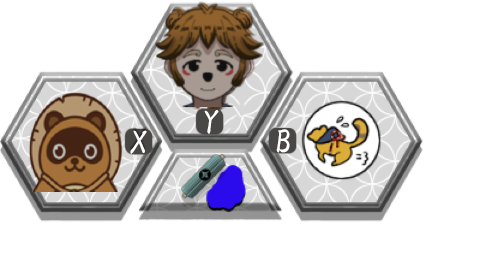
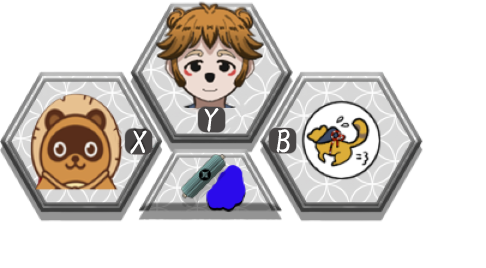
巻物ありと巻物無しのUIを作成

Changed region(s): [[0.3086, 0.0, 0.5556, 0.5075], [0.0617, 0.3284, 0.2778, 0.7164]]

diff --git a/AppFrame/source/Resources.h b/AppFrame/source/Resources.h
@@ -100,7 +100,8 @@ namespace ui
   inline constexpr const char* UI_8 = "res/UI/UI_8.png";
   inline constexpr const char* UI_9 = "res/UI/UI_9.png";
   inline constexpr const char* UI_Hito = "res/UI/UI_Hito.png";
-  inline constexpr const char* UI_HitoBK = "res/UI/UI_HitoBK.png";
+  inline constexpr const char* UI_HitoBK_1 = "res/UI/UI_HitoBK_1.png";
+  inline constexpr const char* UI_HitoBK_2 = "res/UI/UI_HitoBK_2.png";
   inline constexpr const char* UI_Mono = "res/UI/UI_Mono.png";
   inline constexpr const char* UI_Tanubito_no = "res/UI/UI_Tanubito_no.png";
   inline constexpr const char* UI_nokori = "res/UI/UI_nokori.png";
@@ -122,6 +123,7 @@ namespace ui
 
 namespace ef
 {
+  inline constexpr const char* EF_Kirakira = "res/Effect/EF_Kirakira.efkefc";
   inline constexpr const char* EF_Kizetsu = "res/Effect/EF_Kizetsu.efkefc";
   inline constexpr const char* EF_Shirimoti = "res/Effect/EF_Shirimoti.efkefc";
   inline constexpr const char* EF_Treasureopen = "res/Effect/EF_Treasureopen.efkefc";
@@ -159,6 +161,7 @@ namespace mv1
   inline constexpr const char* SM_stage3 = "res/map/SM_stage3.mv1";
   inline constexpr const char* S_Marker_Event = "res/map/S_Marker_Event.mv1";
   inline constexpr const char* S_Savepoint = "res/map/S_Savepoint.mv1";
+  inline constexpr const char* S_Savepoint_2 = "res/map/S_Savepoint_2.mv1";
   inline constexpr const char* SK_busi_multimotion = "res/PoorEnemyMelee/SK_busi_multimotion.mv1";
   inline constexpr const char* skysphere = "res/SkySphere/skysphere.mv1";
   inline constexpr const char* SK_multimotionTanuHuman_06 = "res/Tanuhuman/SK_multimotionTanuHuman_06.mv1";
